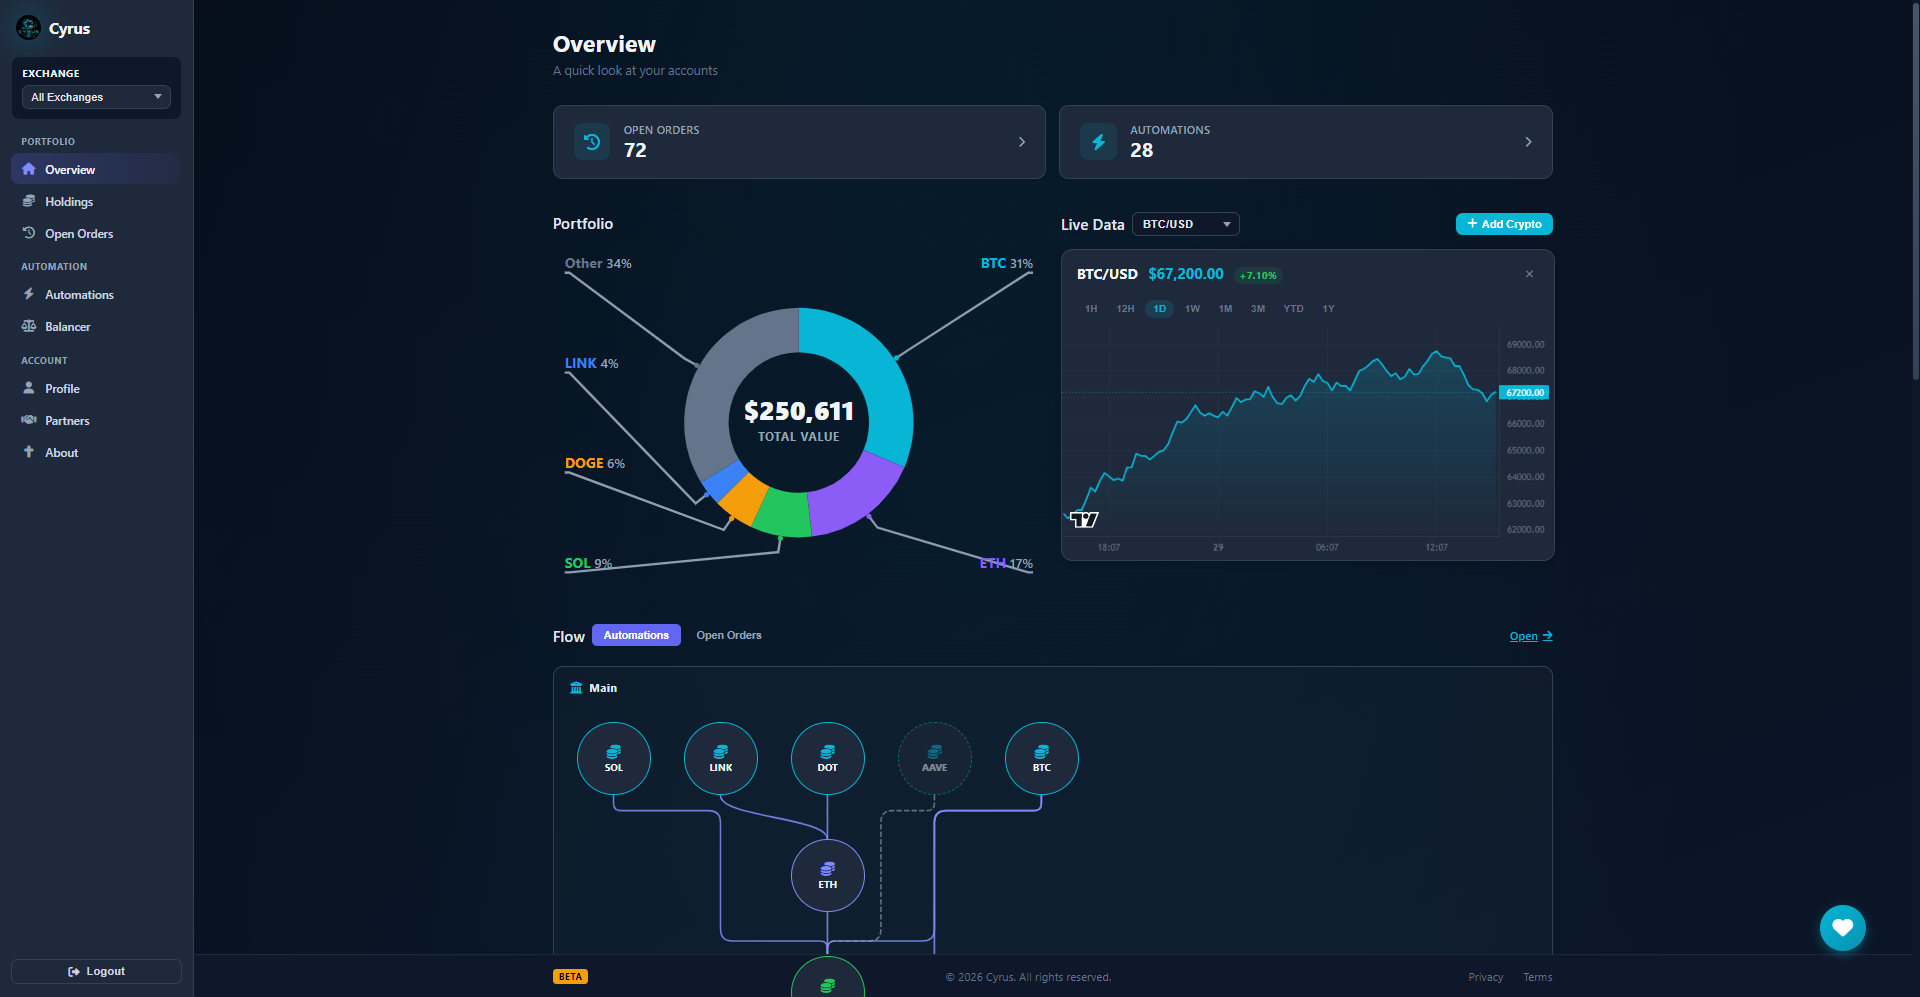
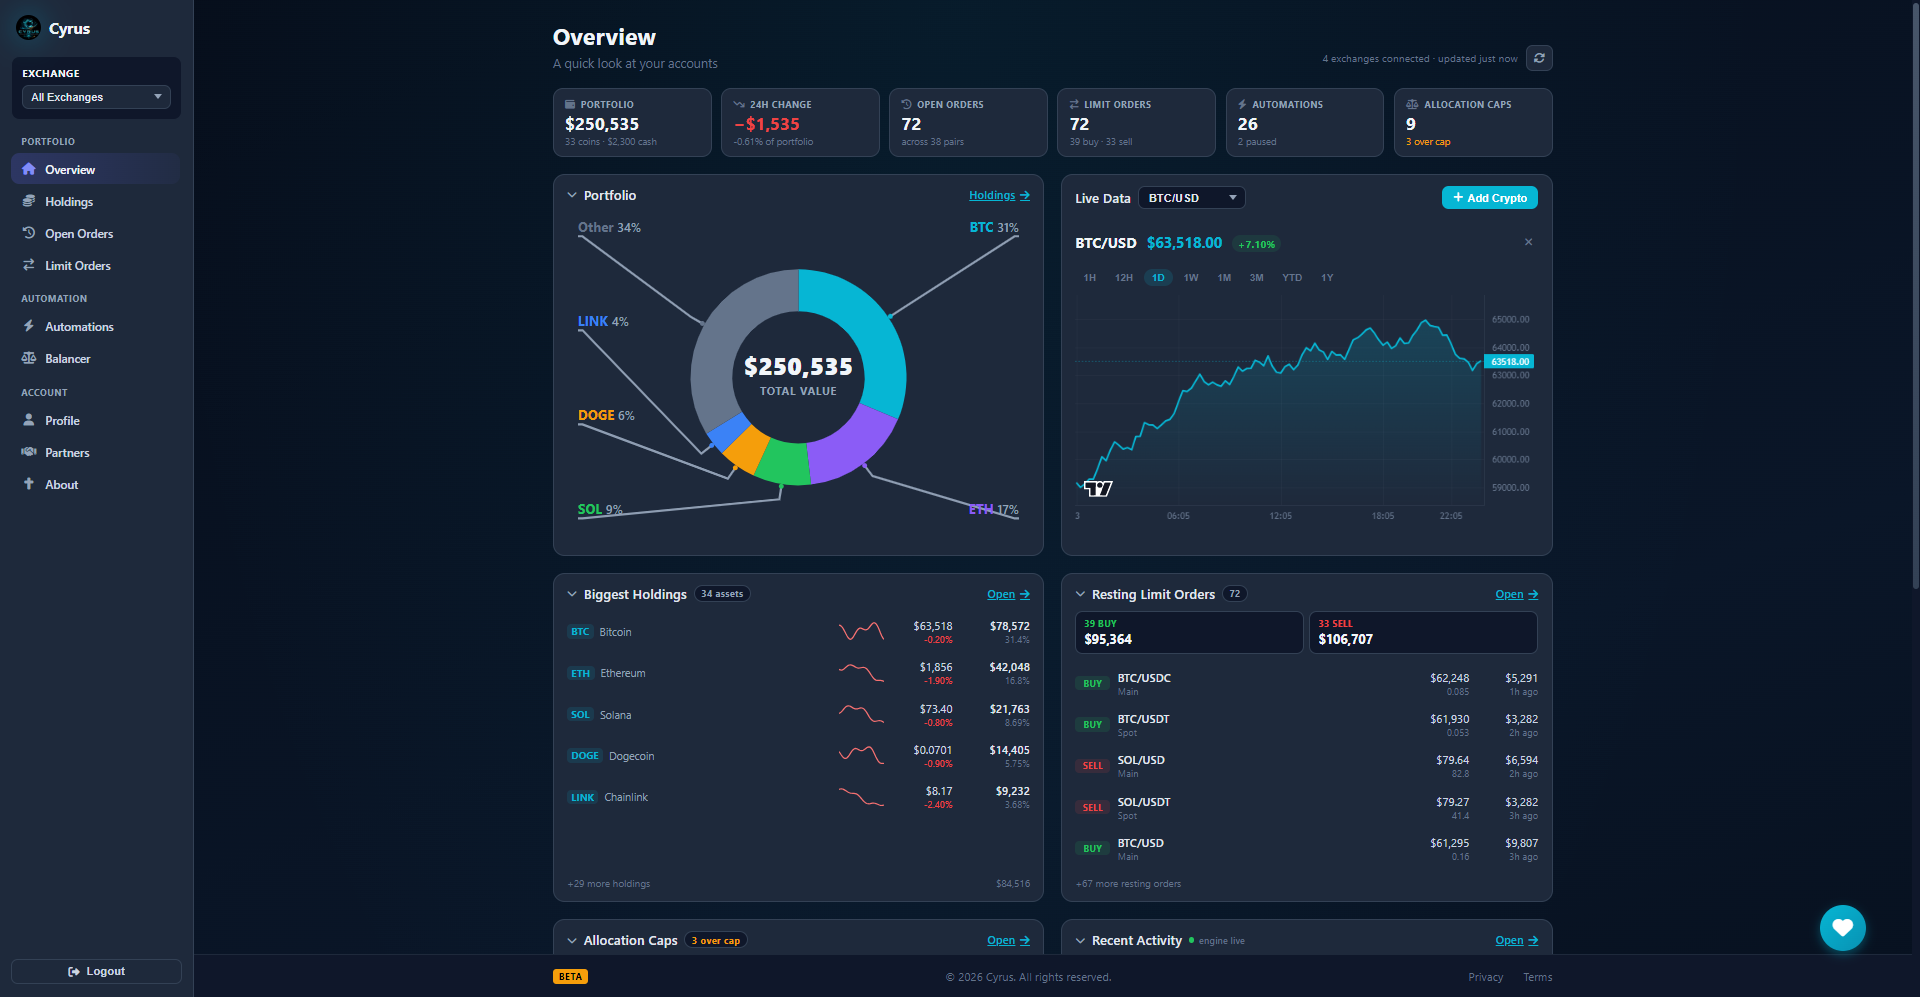
Add the Limit Orders gallery row and refresh the overview shot
Takes the parked Limit Orders row live with a real screenshot: the
sortable table of resting buy orders across all four exchanges, with
partial fills flagged.

Also replaces shot-overview.png, which was a v1.2.3 capture — it predates
both the Limit Orders stat tile and the Resting Limit Orders card, and
showed the old demo prices. The showcase copy now mentions that card, and
both alt texts describe what is actually in frame.

diff --git a/index.html b/index.html
@@ -1670,7 +1670,7 @@
   <div class="showcase-heading">
     <div class="section-label reveal">A Look Inside</div>
     <h2 class="section-title reveal">Your whole portfolio, at a glance.</h2>
-    <p class="section-desc reveal">One unified dashboard for balances, open orders, live prices, and the automations running quietly in the background — across every connected exchange.</p>
+    <p class="section-desc reveal">One unified dashboard for balances, open orders, live prices, and the automations running quietly in the background — across every connected exchange. Resting limit orders get their own card, split buy against sell, so you can see what you have working before you drill in.</p>
   </div>
 
   <div class="app-frame reveal">
@@ -1680,7 +1680,7 @@
       <span class="app-frame-dot app-frame-dot--g"></span>
       <span class="app-frame-label">Cyrus — Overview</span>
     </div>
-    <img src="shot-overview.png" alt="Cyrus overview dashboard: portfolio doughnut with total value, open order and automation counts, a live BTC/USD chart, and the automation flow diagram" loading="lazy">
+    <img src="shot-overview.png" alt="Cyrus overview dashboard: tiles for portfolio value, 24h change, open orders, limit orders, automations and allocation caps, above a portfolio doughnut, a live BTC/USD chart, biggest holdings with seven-day trend lines, and a resting limit orders card split into buys and sells" loading="lazy">
   </div>
 </section>
 
@@ -1826,14 +1826,6 @@
       </div>
     </div>
 
-    <!-- Limit Orders gallery row. Parked in a template (not an HTML comment,
-         which cannot legally contain the double hyphens in the BEM class names)
-         until shot-limitorders.png exists. Capture it from the Limit Orders page
-         with demo mode on, showing the ladder wizard's review step. To publish:
-         unwrap the template, and flip the Profile row below from
-         "gallery-row reveal" to add "gallery-row_ _reverse" (real double hyphen)
-         so the left/right alternation keeps working. -->
-    <template id="gallery-row-limitorders">
     <div class="gallery-row reveal">
       <div class="gallery-shot app-frame">
         <div class="app-frame-bar">
@@ -1842,17 +1834,16 @@
           <span class="app-frame-dot app-frame-dot--g"></span>
           <span class="app-frame-label">Cyrus &mdash; Limit Orders</span>
         </div>
-        <img src="shot-limitorders.png" alt="Cyrus limit orders page: a table of resting buy and sell limit orders across four exchanges, with the ladder wizard open showing each rung's price and size before submitting" loading="lazy">
+        <img src="shot-limitorders.png" alt="Cyrus limit orders page: buy and sell tabs over a sortable table of 39 resting buy orders across four exchanges, each row showing the exchange, pair, limit price, volume, filled amount with partial fills flagged, estimated total, and a cancel button" loading="lazy">
       </div>
       <div class="gallery-copy">
         <div class="gallery-eyebrow">Limit Orders</div>
         <h3 class="gallery-title">Ladder into a position, one rung at a time.</h3>
-        <p class="gallery-desc">Place a single limit order, or stagger dozens across a price band in one pass &mdash; set the span by percentage or exact price, commit a share of your balance, and Cyrus snaps every rung to the exchange&rsquo;s tick grid. Edit any rung before you submit, then watch them go out one by one, paced to each exchange&rsquo;s rate limits, with a stop button and a per-rung result. Every resting order across every exchange lands back in one sortable table.</p>
+        <p class="gallery-desc">Place a single limit order, or stagger dozens across a price band in one pass &mdash; set the span by percentage or exact price, commit a share of your balance, and Cyrus snaps every rung to the exchange&rsquo;s tick grid. Edit any rung before you submit, then watch them go out one by one, paced to each exchange&rsquo;s rate limits, with a stop button and a per-rung result. Every resting order across every exchange lands back in one sortable table, partial fills and all.</p>
       </div>
     </div>
-    </template>
 
-    <div class="gallery-row reveal">
+    <div class="gallery-row gallery-row--reverse reveal">
       <div class="gallery-shot app-frame">
         <div class="app-frame-bar">
           <span class="app-frame-dot app-frame-dot--r"></span>
